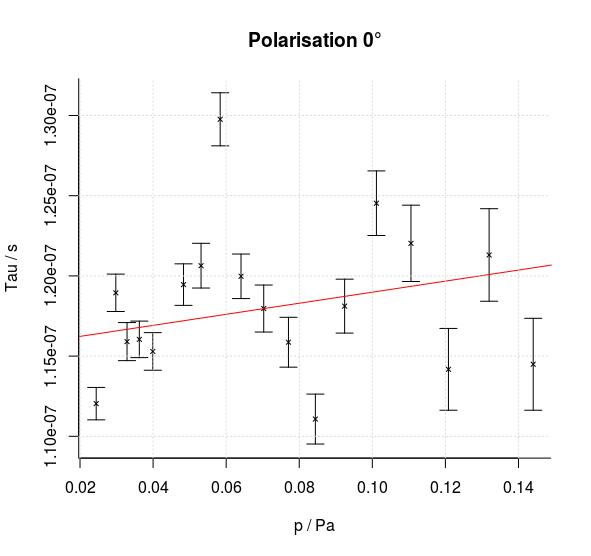
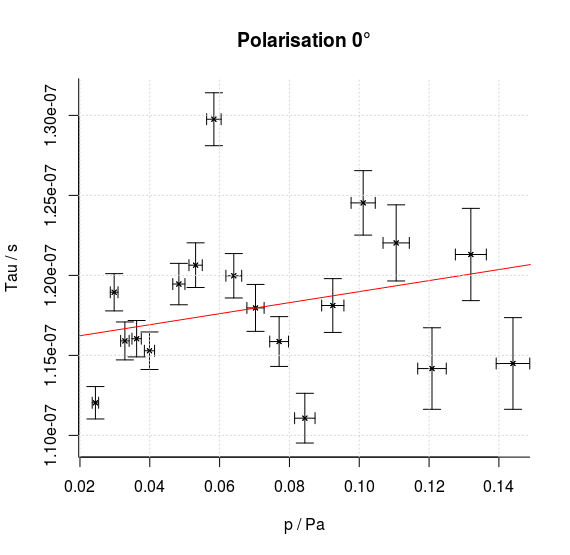
argdrh

diff --git a/hanle.tex b/hanle.tex
@@ -312,6 +312,10 @@ Wie in Kapitel \ref{Coherence} besprochen, hängen die gemessenen Lebensdauern v
 \begin{align}
 	p&=p_c\cdot\exp\left(\frac{T_c}{T}\left(a_1T_r+a_2Tr^{1.89}+a_3T_r^2+a_4T_r^8+a_5T_r^8.5+a_6T_r^9\right)\right) &\text{mit }T_r=1-\frac{T}{T_c}\label{druckformel}
 \end{align}
+Der Fehler auf den Druck berechnet sich aus der Kovarianzmatrix aus \cite{anleitung} über folgende Formel:
+\begin{align*}
+	s_p&=
+\end{align*}
 Aus den gemessenen Temperaturen berechnen wir mit Gleichung (\ref{druckformel}) den Dampfdruck. Wir tragen die gemessenen Lebensdauern über den Druck auf und bestimmen dann aus einer linearen Regression die tatsächliche Lebensdauer $\tau(p=0)$. Diese entspricht dem y-Achsenabschnitt des linearen Fits, da dieser den Wert $\tau(p=0)$ darstellt.
 \newpage
 \subsubsection{Polarisationen $Pol=0°$ und $Pol=90°$}
